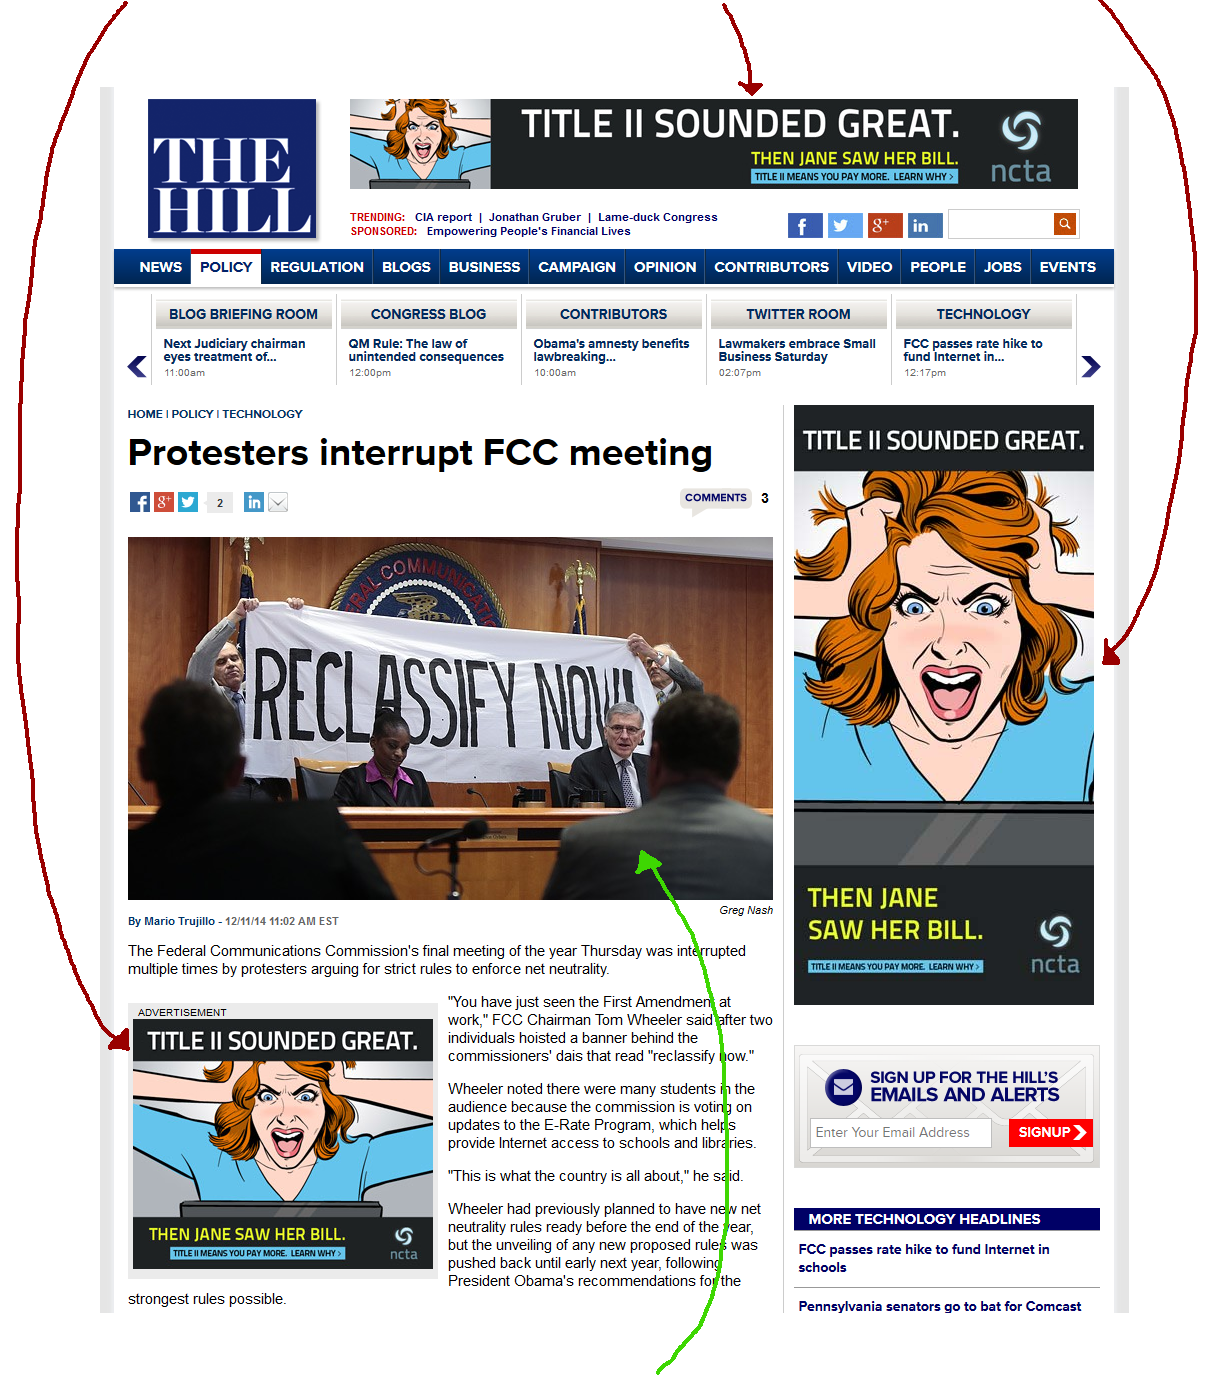
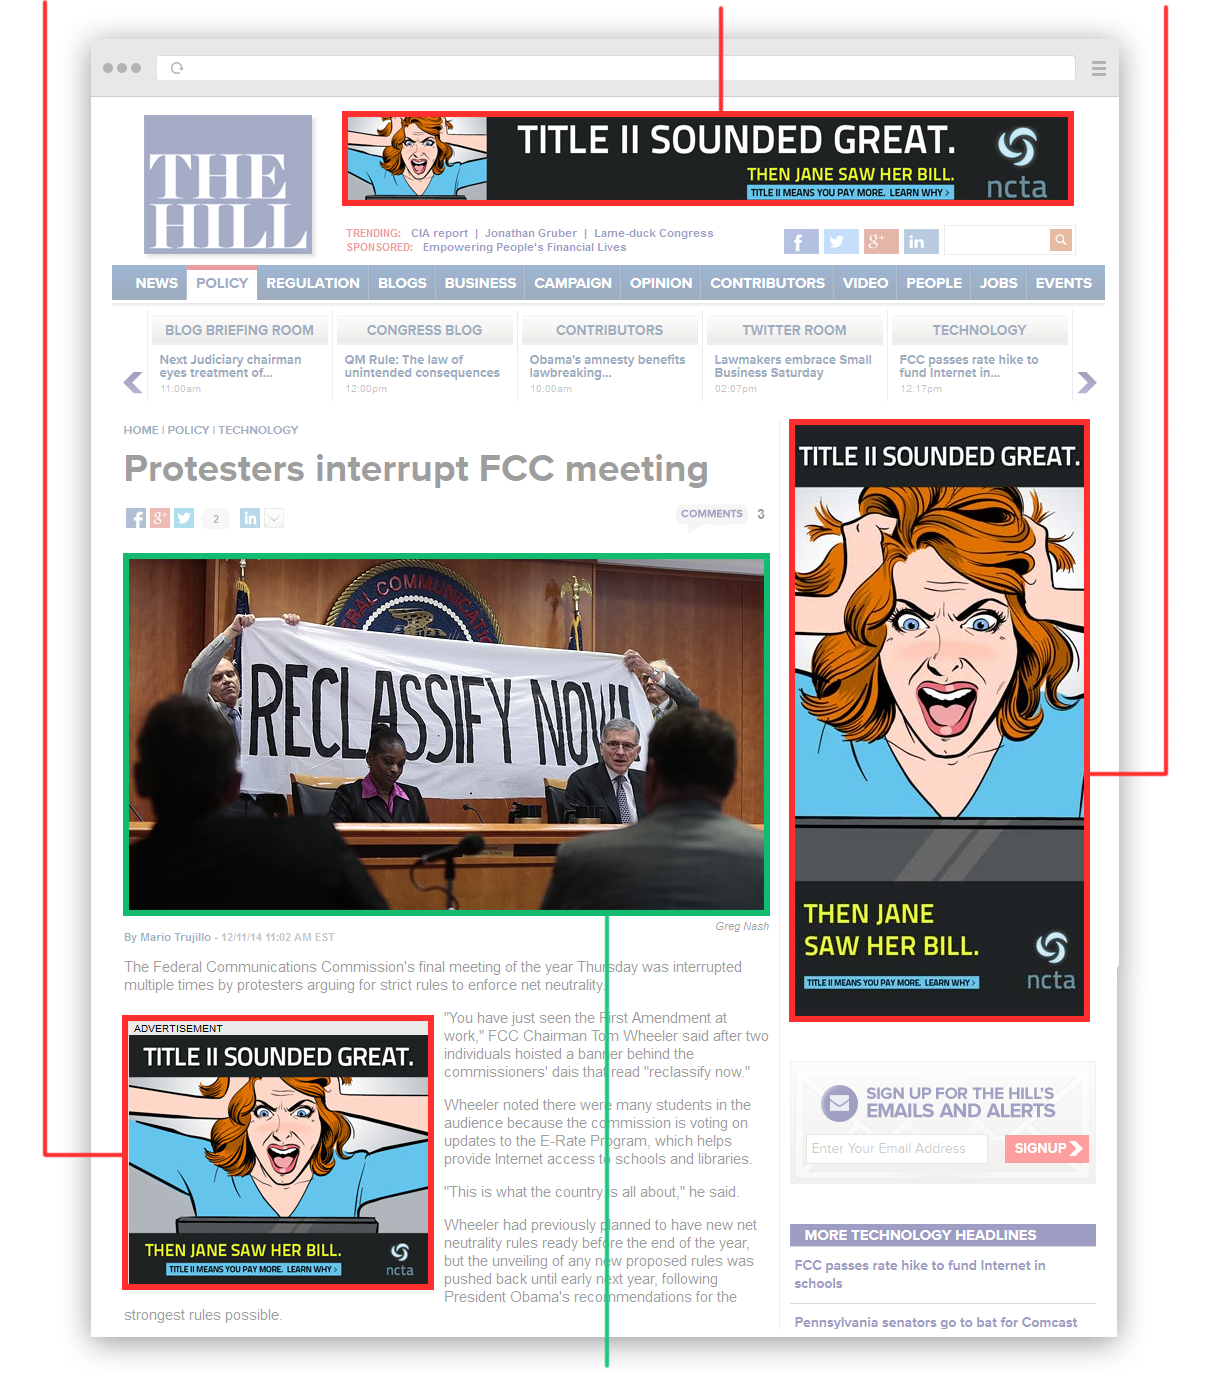
changed style and images

diff --git a/css/site.css b/css/site.css
@@ -93,10 +93,10 @@ h2 {
 }
 h3 {
     font-size: 1.8em;
-    color: #900;
+    color: #ff2f2f;
 }
 h3.yay {
-    color: #3ed702;
+    color: #1ec67d;
 }
 hr {
     border: 0px;
@@ -202,16 +202,17 @@ form button {
     display: block;
     font-size: 1.3em;
     font-weight: bold;
-    padding: 0px 10px;
+    padding-left: 30px;
+    padding-right: 30px;
     box-sizing: border-box;
     height: 40px;
     line-height: 40px;
     margin: 10px auto;
-    background: #900;
+    background: #d33434;
     color: white;
     border: 0px none;
     cursor: pointer;
-    border-radius: 10px;
+    border-radius: 60px;
 
 }
 form.emailForm button, form.phoneForm2 button {
@@ -443,4 +444,9 @@ a.btn .bubble em {
 img.screenshot {
     max-width: 100%;
     height: auto;
+}
+
+.split h2{
+	font-family: "Proxima Nova", sans-serif;
+	font-size: 30px;
 }

diff --git a/css/rain.css b/css/rain.css
@@ -1,7 +1,7 @@
 * {margin: 0; padding: 0;}
-body { background-color: #c6dbe5; }
+body { background-color: #2c3741; }
 #rain {position: fixed; width: 100%; height: 100%; overflow: hidden; border: 0px solid black;}
 #rain img {
-    position: absolute; z-index: 20; opacity: .5;
+    position: absolute; z-index: 20; opacity: .3;
 
 }
